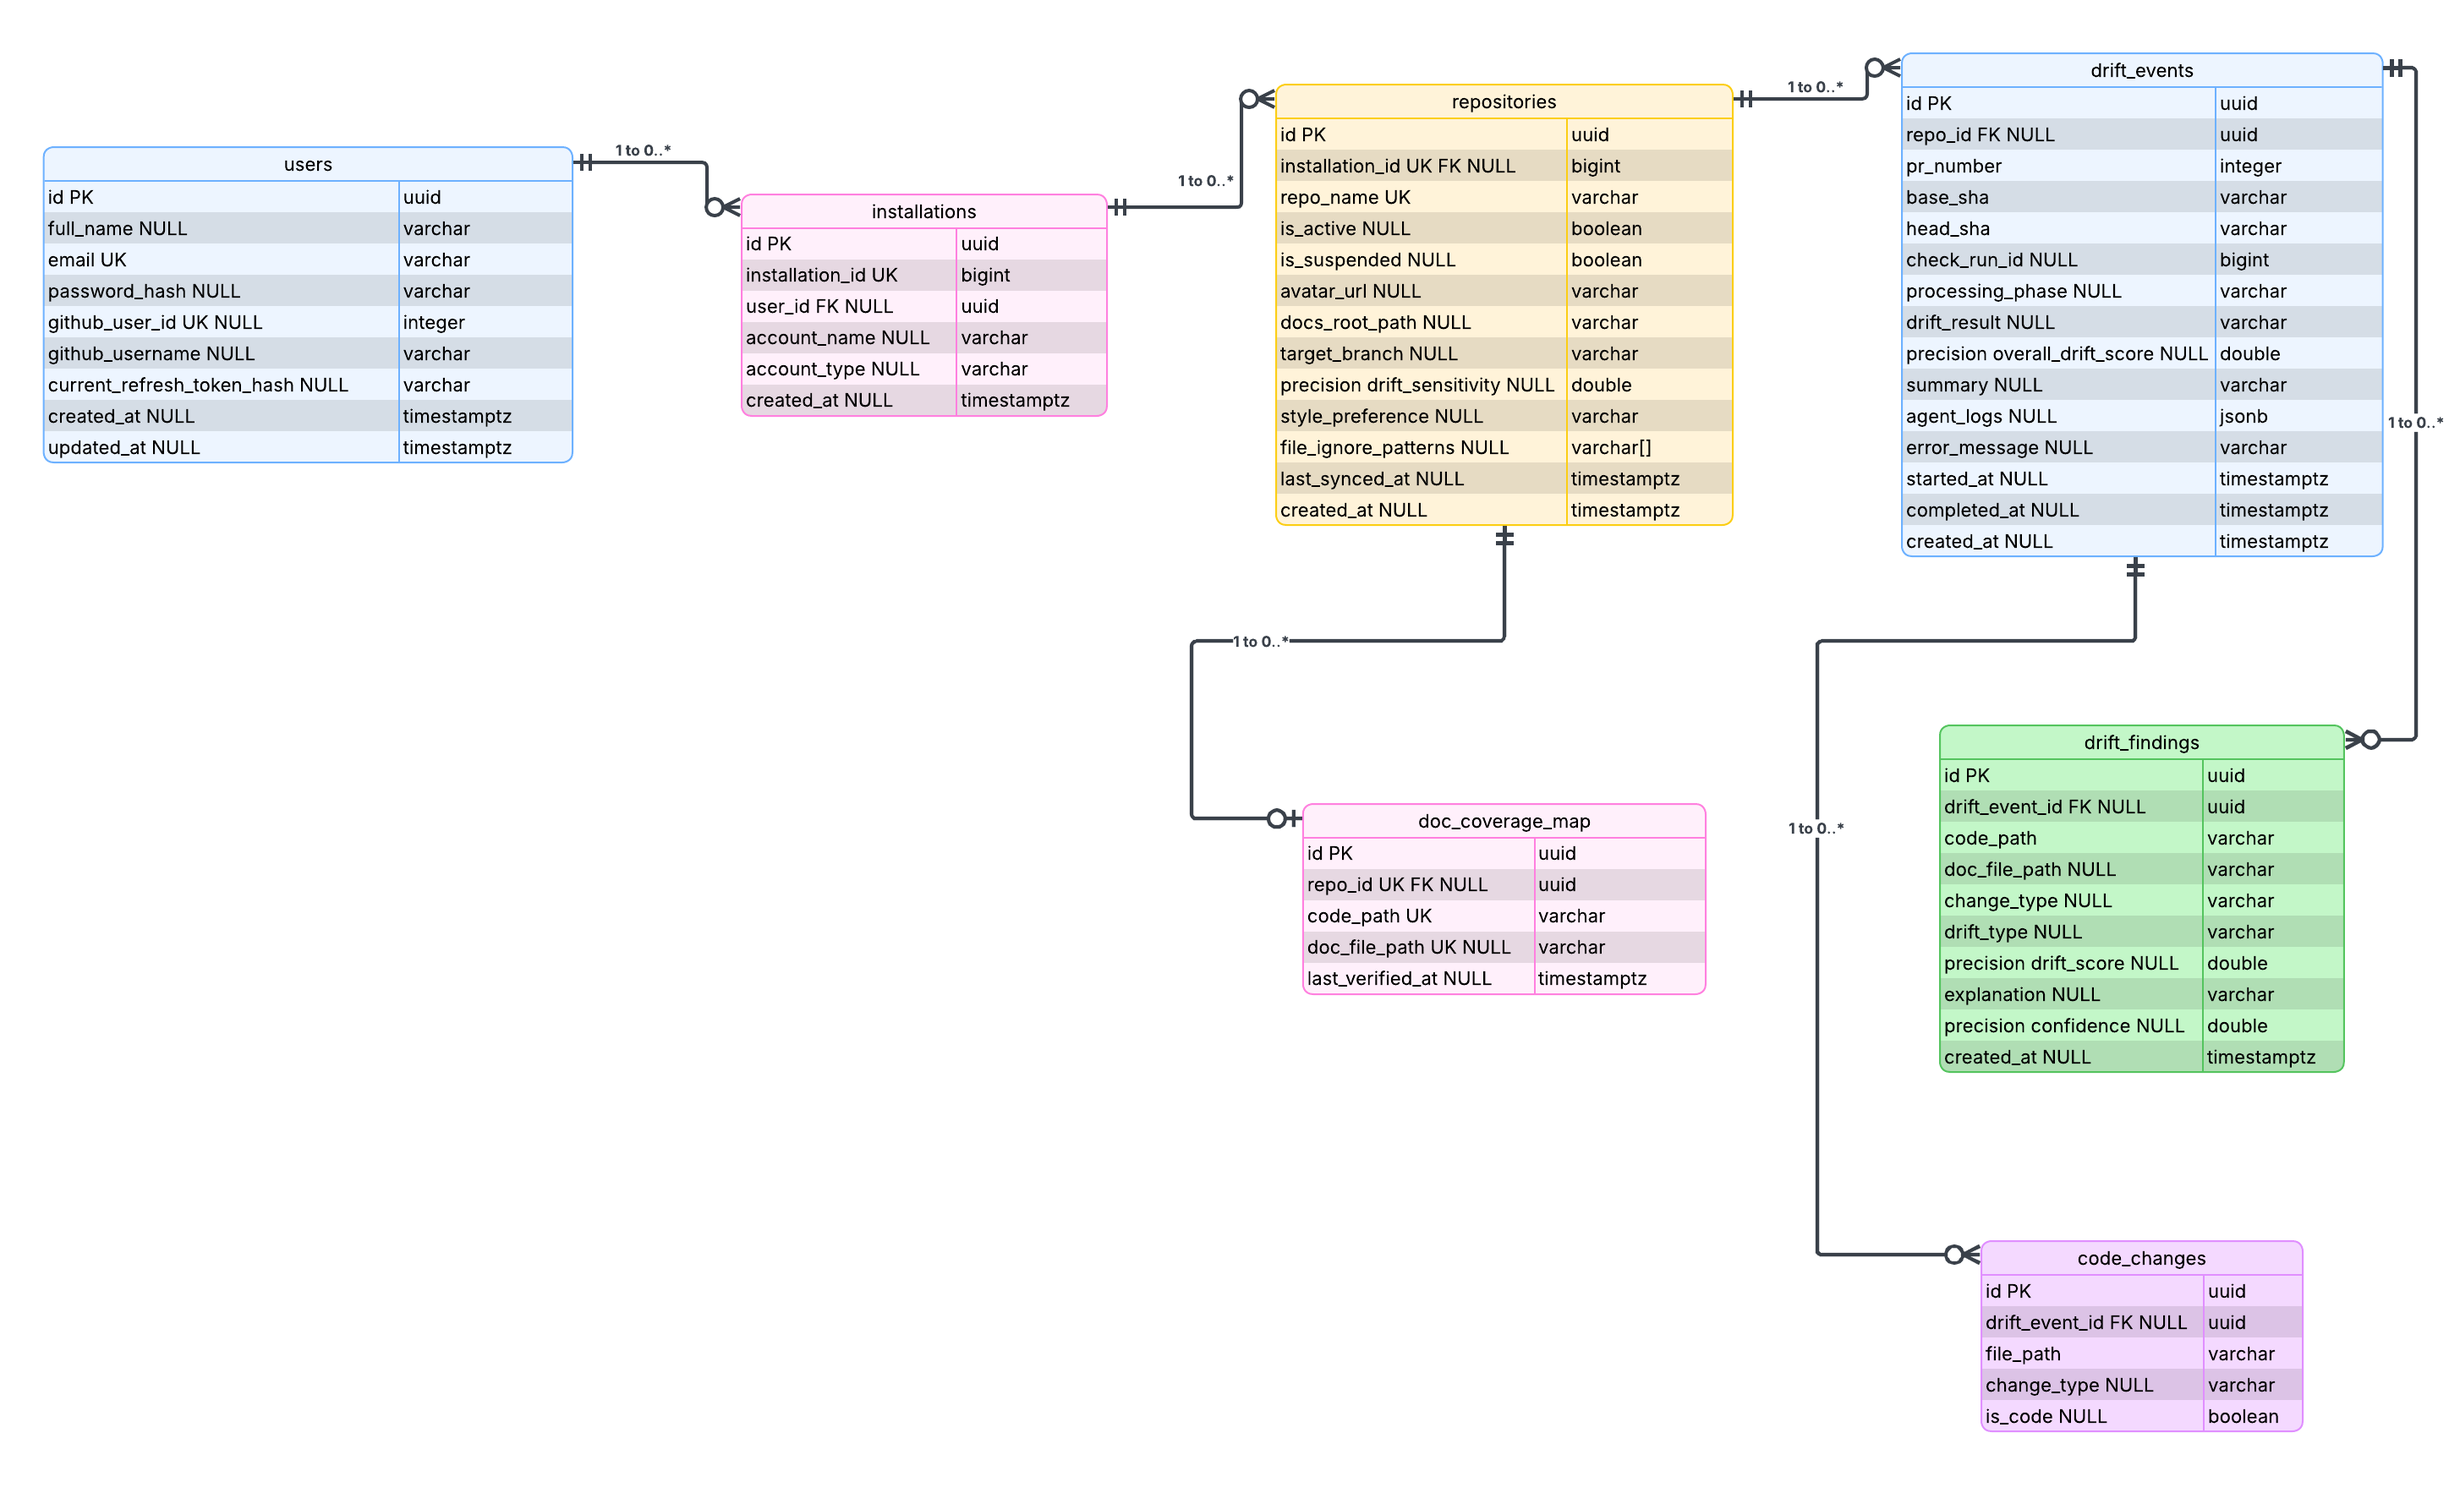
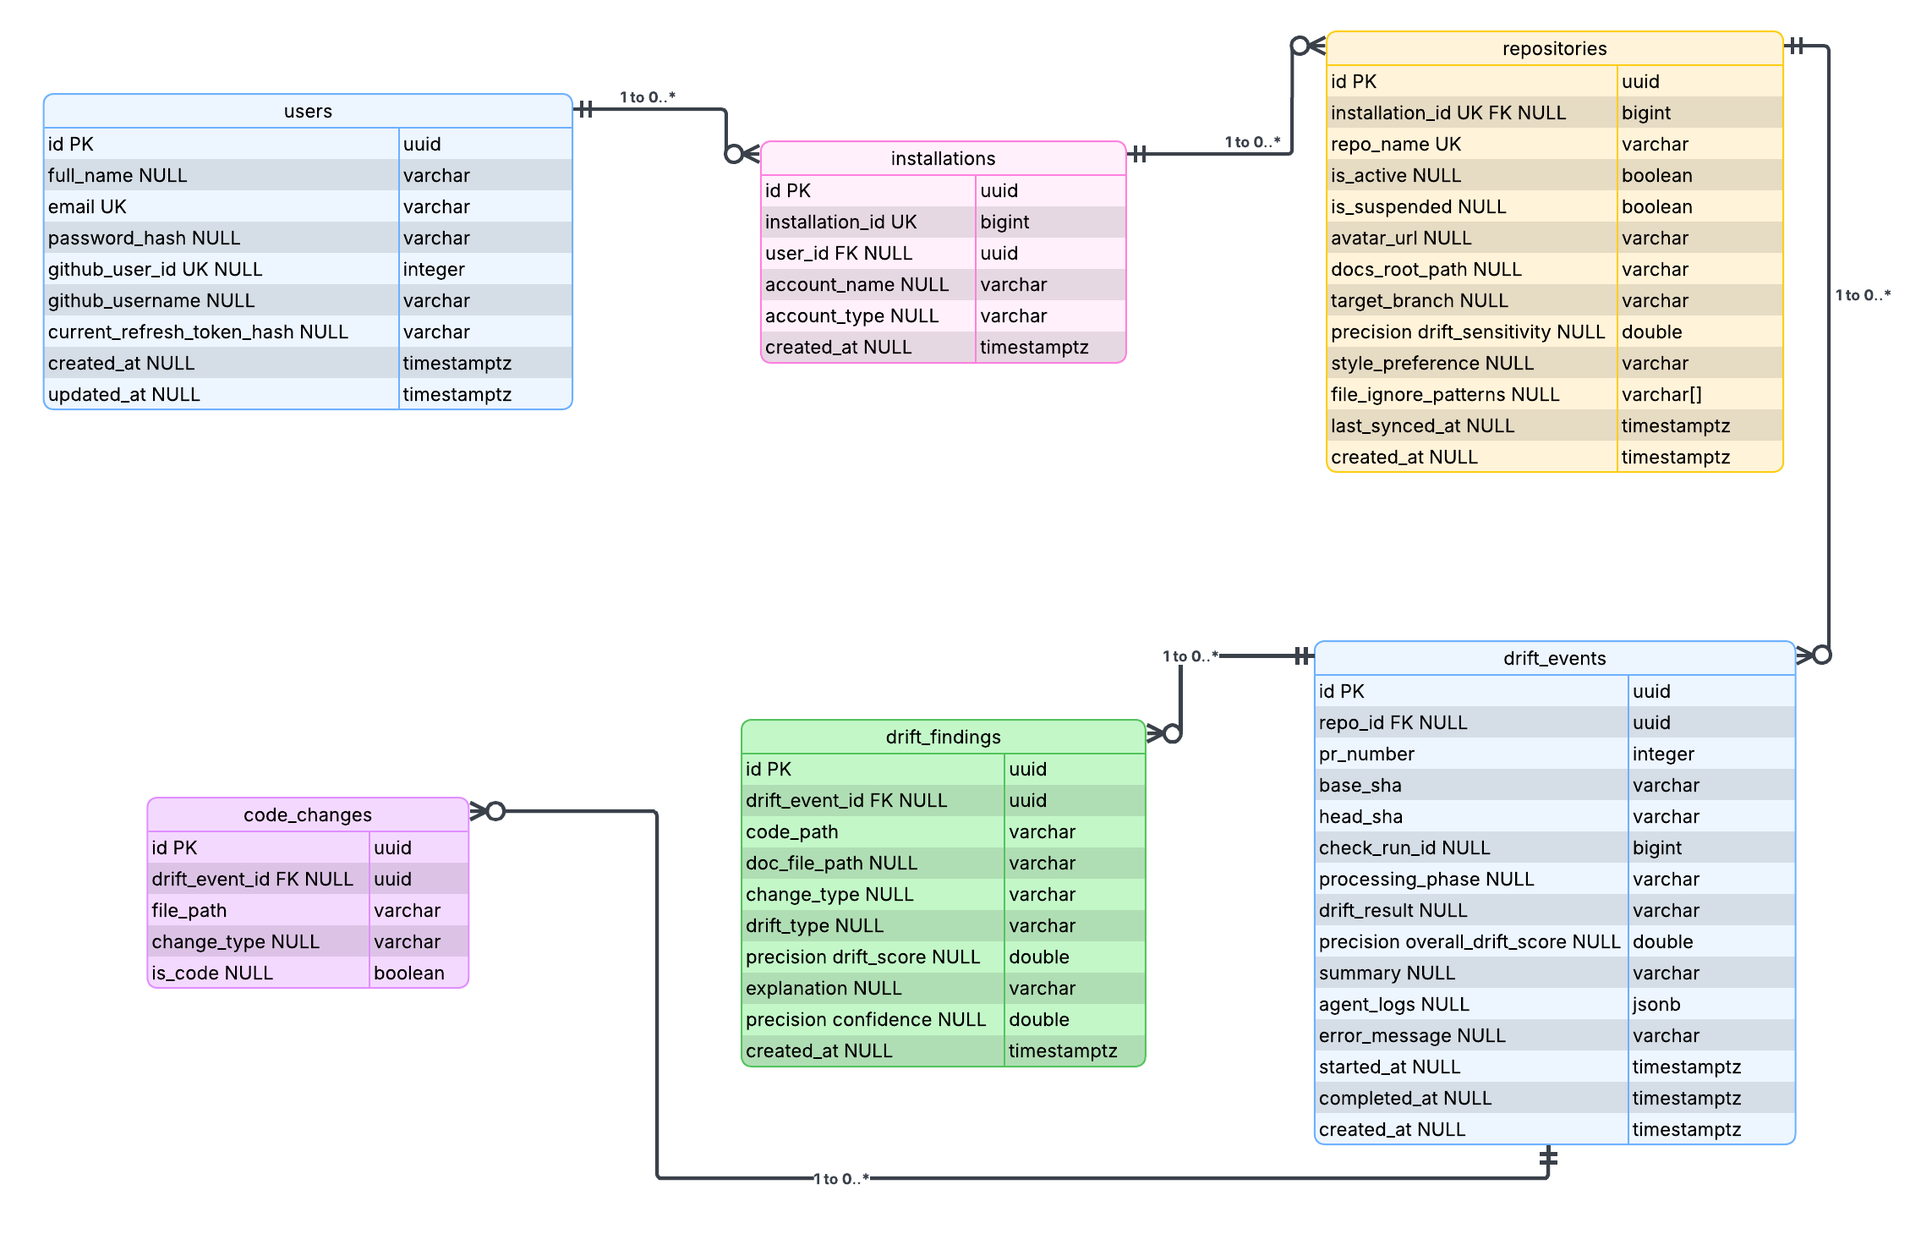
ref: updated db docs

diff --git a/README.md b/README.md
@@ -17,7 +17,7 @@
 - [Team](#team)
 
 
-> **More documentation available at [docs/](docs/). See:**
+> **More documentation available at [/docs](/docs). See:**
 > - [API Documentation](docs/API_DOCUMENTATON.md)
 > - [Auth Documentation](docs/AUTH_DOCUMENTATION.md)
 > - [Database Documentation](docs/DB_DOCUMENTATION.md)
@@ -122,6 +122,12 @@ make down
 
 # Clean cache files
 make clean
+
+# Run ruff and pyrefly linting
+make lint
+
+# Run ruff's formatter
+make format
 ```
 
 > **NOTE**: The `make` commands are designed to work only on Linux.  

diff --git a/docs/DB_DOCUMENTATION.md b/docs/DB_DOCUMENTATION.md
@@ -55,20 +55,6 @@ CREATE TABLE repositories (
 );
 ```
 
-### Doc Coverage Map Table
-```sql
-CREATE TABLE doc_coverage_map (
-    id UUID PRIMARY KEY DEFAULT gen_random_uuid(),
-    repo_id UUID REFERENCES repositories(id) ON DELETE CASCADE,
-    code_path VARCHAR NOT NULL,
-    doc_file_path VARCHAR,
-    last_verified_at TIMESTAMPTZ DEFAULT now(),
-    UNIQUE(repo_id, code_path, doc_file_path)
-);
-
-CREATE INDEX idx_coverage_repo ON doc_coverage_map(repo_id);
-```
-
 ### Drift Events Table
 ```sql
 CREATE TABLE drift_events (
